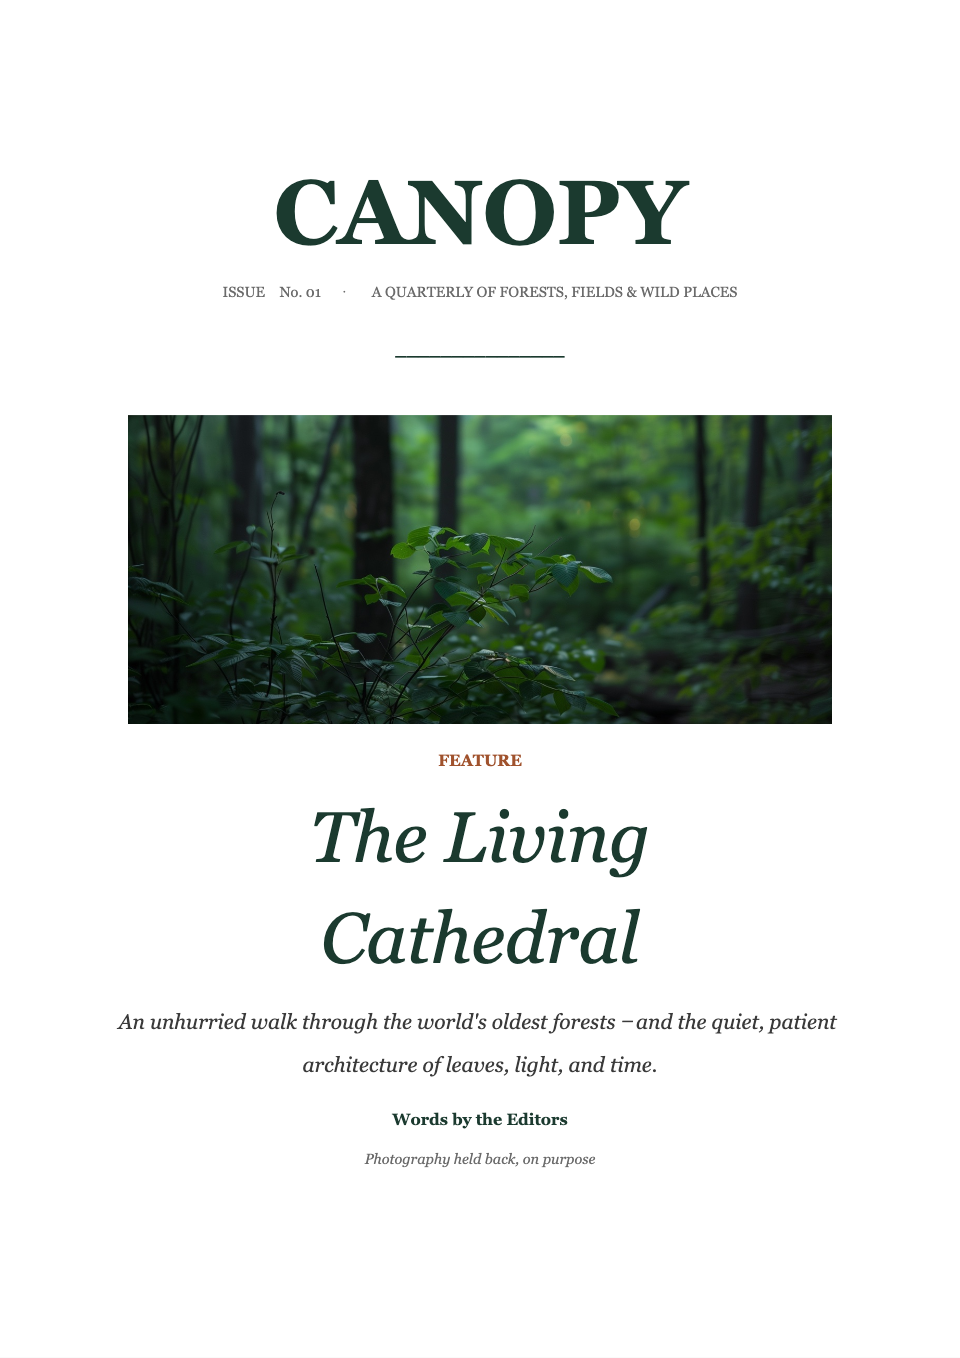
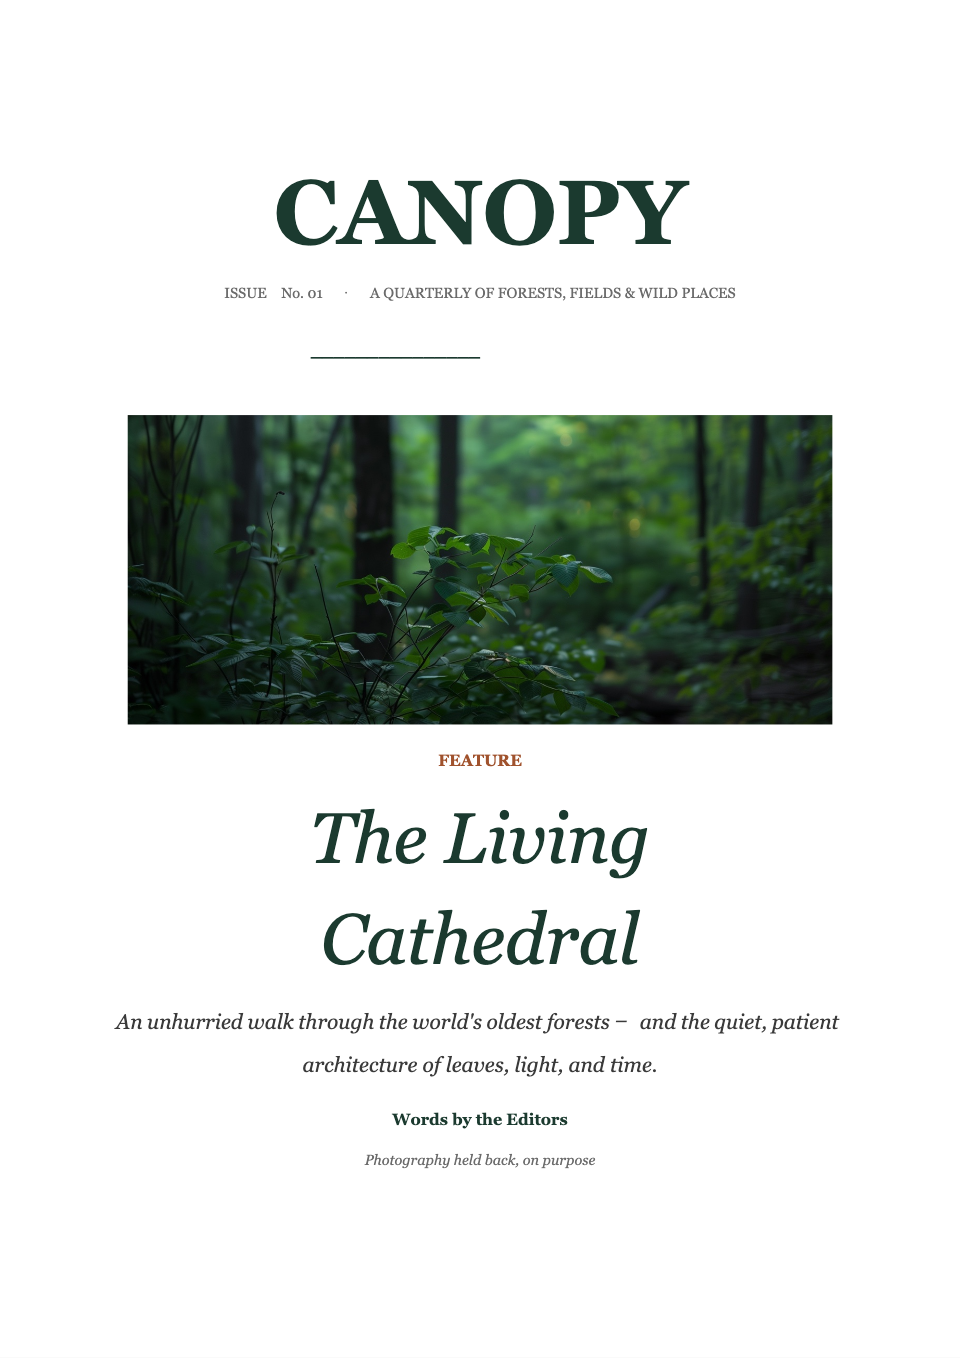
chore(release): 0.84.1
Prepare the 0.84.1 patch release with the audited Word layout refinements, refreshed public announcement and production bundle measurements, synchronized package and MCP versions, and current README screenshots.

Verification includes independent adversarial review, focused TypeScript and Rust tests, architecture and compatibility gates, type checking, library and site builds, README screenshot generation, Cargo checks, and fixed-baseline full private-corpus VRT.

diff --git a/site/src/announcement-content.test.ts b/site/src/announcement-content.test.ts
@@ -11,6 +11,30 @@ const siteFooter = readFileSync(new URL('./components/SiteFooter.astro', import.
 const capabilities = readFileSync(new URL('./components/Capabilities.astro', import.meta.url), 'utf8');
 const readme = readFileSync(new URL('../../README.md', import.meta.url), 'utf8');
 
+describe('v0.84.1 Word layout announcement', () => {
+  const announcement = announcements.find((item) => item.slug === 'v0841-word-layout-refinements');
+
+  it('states the user-visible patch boundary without implementation detail', () => {
+    expect(announcement).toMatchObject({
+      label: 'Release note',
+      version: 'v0.84.1',
+      title: 'Word layout refinements in v0.84.1',
+    });
+    expect(announcement?.sections[0]).toMatchObject({
+      title: 'More faithful, more focused',
+      kind: 'summary',
+    });
+    const text = announcement?.sections.flatMap((section) => [
+      section.title,
+      ...section.paragraphs,
+      ...(section.bullets ?? []),
+    ]).join('\n') ?? '';
+    expect(text).toContain('No migration is required');
+    expect(text).toContain('other table layouts keep their previous behavior');
+    expect(text).not.toMatch(/standards-mode|nested-table|insetmode|pagination|compatibility module|synthetic fixture/i);
+  });
+});
+
 describe('v0.84 TIFF image announcement', () => {
   const announcement = announcements.find((item) => item.slug === 'v084-tiff-images');
 
@@ -148,10 +172,12 @@ describe('v0.81 ChartEx migration guide', () => {
 
 describe('stable documentation boundaries', () => {
   it('keeps the current bundle measurements on one stable page', () => {
-    expect(bundleSizePage).toContain('Current production assets in v0.84.0');
+    expect(bundleSizePage).toContain('Current production assets in v0.84.1');
     expect(bundleSizePage).toContain('DOCX static JavaScript');
+    expect(bundleSizePage).toContain('<td>1,924 KiB</td>');
     expect(bundleSizePage).toContain('XLSX static JavaScript');
     expect(bundleSizePage).toContain('PPTX static JavaScript');
+    expect(bundleSizePage).toContain('<tr><th>DOCX parser WASM</th><td>1,786 KiB</td><td>741 KiB</td></tr>');
     expect(bundleSizePage).toContain('ChartEx');
     expect(bundleSizePage.match(/<th>TIFF image codec<\/th>/g)).toHaveLength(1);
     expect(bundleSizePage).toContain('<td>4.0 KiB</td><td>1.6 KiB</td>');

diff --git a/site/src/lib/announcements.ts b/site/src/lib/announcements.ts
@@ -36,6 +36,35 @@ export interface Announcement {
 
 export const announcements: readonly Announcement[] = [
   {
+    slug: 'v0841-word-layout-refinements',
+    date: '2026-09-01',
+    label: 'Release note',
+    version: 'v0.84.1',
+    title: 'Word layout refinements in v0.84.1',
+    summary: 'v0.84.1 improves legacy text-box spacing and keeps page-break behavior carefully limited to the Word documents it was designed for.',
+    audience: 'Applications that display DOCX files. Existing setup and viewer options continue to work unchanged.',
+    sections: [
+      {
+        title: 'More faithful, more focused',
+        kind: 'summary',
+        paragraphs: [
+          'Legacy Word text boxes now keep their authored inner spacing in an additional setting combination. Table rows also stay together at the verified Word page boundaries, while other table layouts keep their previous behavior.',
+        ],
+        bullets: [
+          'Preserve authored spacing in more legacy Word text boxes.',
+          'Keep the page-break adjustment limited to the verified cases.',
+          'Upgrade without changing application code.',
+        ],
+      },
+      {
+        title: 'Upgrading',
+        paragraphs: [
+          'No migration is required from v0.84.0. TIFF support and existing viewer integrations remain unchanged.',
+        ],
+      },
+    ],
+  },
+  {
     slug: 'v084-tiff-images',
     date: '2026-09-01',
     label: 'Release note',

diff --git a/CHANGELOG.md b/CHANGELOG.md
@@ -7,6 +7,20 @@ the corresponding minor release.
 
 ## Unreleased
 
+## 0.84.1 — 2026-09-01
+
+Compatible patch release tightening the Word compatibility boundaries introduced
+in 0.84.0, with no integration changes.
+
+- **legacy text-box margins:** honor authored VML text-box insets even when a
+  document also contains the legacy automatic-inset marker, matching Word's
+  documented behavior.
+- **table row layout:** limit the observed Word page-break adjustment to the
+  verified paragraph cases and restore the previous behavior for other table
+  layouts.
+- **compatibility:** no option, method or existing default is removed or
+  renamed. No application migration is required from 0.84.0.
+
 ## 0.84.0 — 2026-09-01
 
 Compatible minor release adding opt-in TIFF image rendering across Word, Excel
